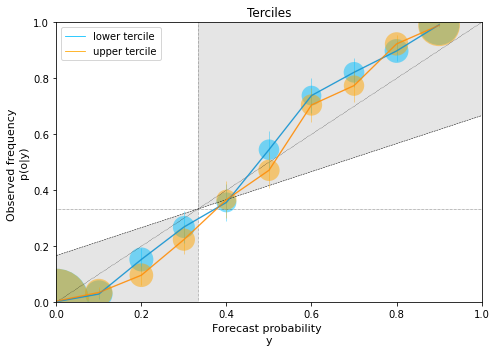
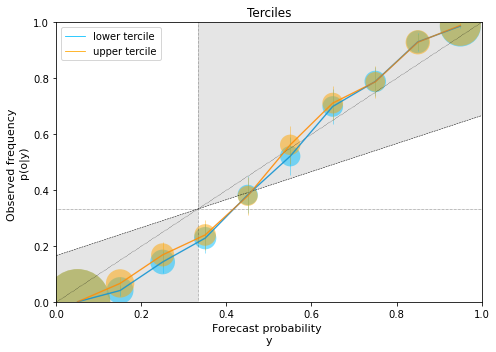
Update example
Use bins mid-points in plots

Changed region(s): [[0.0907, 0.0625, 0.9677, 0.875]]

diff --git a/README.md b/README.md
@@ -110,7 +110,7 @@ nfc = 51      # ensemble size of the forecasts
 
 clima = np.random.normal(loc=0,scale=10,size=(nobs,nclim))   # climatology (follows the same normal distribution for all events)
 obs = np.random.normal(loc=0,scale=10,size=(nobs))           # observations drawn from the same distribution as climatology
-fcast = np.random.normal(loc=obs+np.random.normal(loc=2,scale=5,size=(nobs)) ,scale=5,size=(nfc,nobs)).T   # forecasts (also generated by a normal distribution 
+fcast = np.random.normal(loc=obs+np.random.normal(loc=3,scale=5,size=(nobs)) ,scale=5,size=(nfc,nobs)).T   # forecasts (also generated by a normal distribution 
                                                                                                            # s.t. ensemble mean = observations + bias + noise)
 ```
 * Compute contingency table and forecast attributes
@@ -126,16 +126,16 @@ print(c_table)
 ```
 ###### Output
 
-    array([[  69., 2846.],
-           [  56.,  288.],
-           [  83.,  174.],
-           [  76.,  112.],
-           [  89.,   85.],
-           [  92.,   64.],
-           [ 108.,   44.],
-           [ 101.,   40.],
-           [ 137.,   27.],
-           [ 484.,   25.]])
+    array([[ 113., 2955.],
+           [  78.,  268.],
+           [  77.,  147.],
+           [  86.,   94.],
+           [  82.,   76.],
+           [  92.,   42.],
+           [ 109.,   34.],
+           [ 124.,   22.],
+           [ 140.,   16.],
+           [ 429.,   16.]])
 
 ###### Input
 ```python
@@ -145,14 +145,14 @@ print(bs, rel, res)
 
 ###### Output
 
-    0.08378799999999999 0.003151037068348895 0.11128203706834891
+    0.08890199999999998 0.007429976189885926 0.11377197618988595
     
 * Plot reliability diagram
 
 ###### Input
 ```python
 # Compute needed elements for diagram
-yi = data.bins  # both have the same bins for the forecast probabilities
+yi = data.bins + (data.bins[1]-data.bins[0])/2   # mid-points of the bins
 oi = data.observed_frequency
 ci_low, ci_upp = data.confidence_intervals()
 wti = np.sum(c_table,axis=1)/np.sum(c_table) 
@@ -217,6 +217,8 @@ wti_ut = np.sum(c_table_ut,axis=1)/np.sum(c_table_ut)
 oi_ut = data_ut.observed_frequency()
 ci_low_ut, ci_upp_ut = data_ut.confidence_intervals()
 
+yi = data_lt.bins + (data_lt.bins[1]-data_lt.bins[0])/2  # both have the same bins for the forecast probabilities (same nbins)
+
 # Other elements for plot
 xd = yd = [0,1]
 q = 1/3   # tercile
@@ -224,7 +226,7 @@ clim_x = clim_y = [q,q]
 sk_line = [q/2,(1-q)/2+q]
 
 # Plot
-# (in this example, the model is inderconfident)
+# (in this example, the model is underconfident)
 fig = pl.figure(figsize=(7,5))
 pl.plot(xd,yd,color='black',linestyle=':',linewidth=0.5)
 pl.plot(xd,clim_y,color='black',linestyle=':',linewidth=0.5)
@@ -232,12 +234,12 @@ pl.plot(clim_x,yd,color='black',linestyle=':',linewidth=0.5)
 pl.plot(xd,sk_line,color='black',linestyle='--',linewidth=0.5)
 pl.fill_between(xd,xd,sk_line,facecolor='grey',alpha=0.2)
 pl.fill_betweenx(yd,yd,clim_x,facecolor='grey',alpha=0.2)
-pl.scatter(data_lt.bins,oi_lt,s=wti_lt*10000,color='deepskyblue',marker='o',alpha=0.5,edgecolors='none')
-pl.plot(data_lt.bins,oi_lt,color='deepskyblue',linestyle='-',linewidth=0.8, label="lower tercile")
-pl.errorbar(data_lt.bins,oi_lt,yerr=[oi_lt - ci_low_lt, ci_upp_lt - oi_lt],ecolor='deepskyblue',elinewidth=0.8,alpha=0.5)
-pl.scatter(data_ut.bins,oi_ut,s=wti_ut*10000,color='orange',marker='o',alpha=0.5,edgecolors='none')
-pl.plot(data_ut.bins,oi_ut,color='orange',linestyle='-',linewidth=0.8, label="upper tercile")
-pl.errorbar(data_ut.bins,oi_ut,yerr=[oi_ut - ci_low_ut, ci_upp_ut - oi_ut],ecolor='orange',elinewidth=0.8,alpha=0.5)
+pl.scatter(yi,oi_lt,s=wti_lt*10000,color='deepskyblue',marker='o',alpha=0.5,edgecolors='none')
+pl.plot(yi,oi_lt,color='deepskyblue',linestyle='-',linewidth=0.8, label="lower tercile")
+pl.errorbar(yi,oi_lt,yerr=[oi_lt - ci_low_lt, ci_upp_lt - oi_lt],ecolor='deepskyblue',elinewidth=0.8,alpha=0.5)
+pl.scatter(yi,oi_ut,s=wti_ut*10000,color='orange',marker='o',alpha=0.5,edgecolors='none')
+pl.plot(yi,oi_ut,color='orange',linestyle='-',linewidth=0.8, label="upper tercile")
+pl.errorbar(yi,oi_ut,yerr=[oi_ut - ci_low_ut, ci_upp_ut - oi_ut],ecolor='orange',elinewidth=0.8,alpha=0.5)
 pl.ylim(0.0,1.0)
 pl.xlim(0.0,1.0)
 pl.legend()
